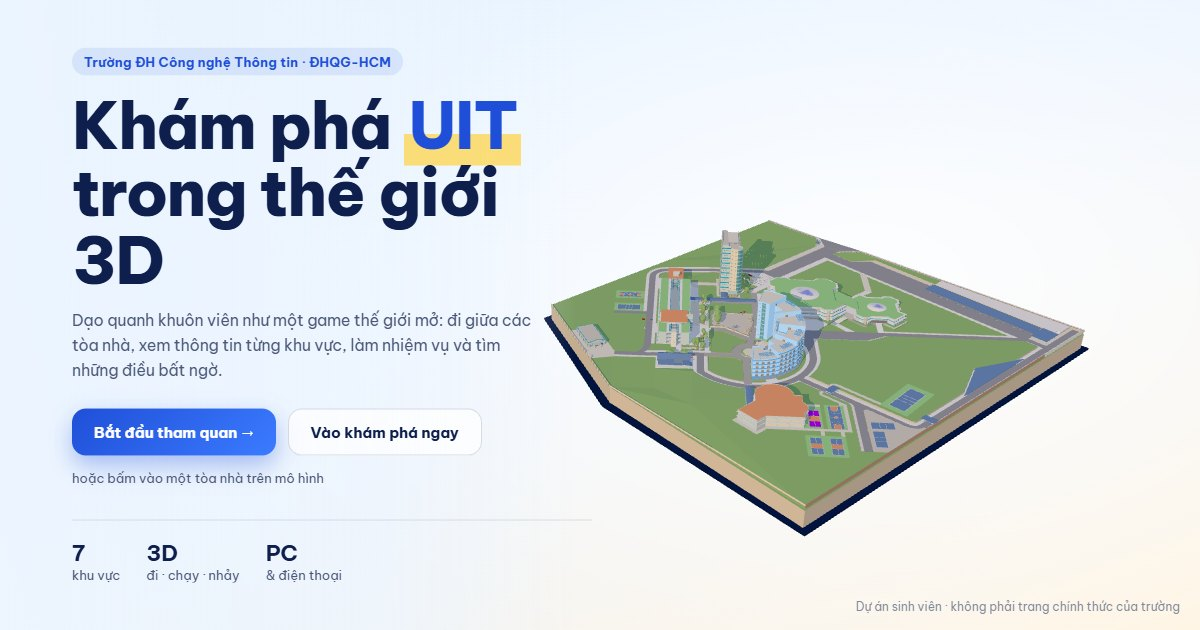
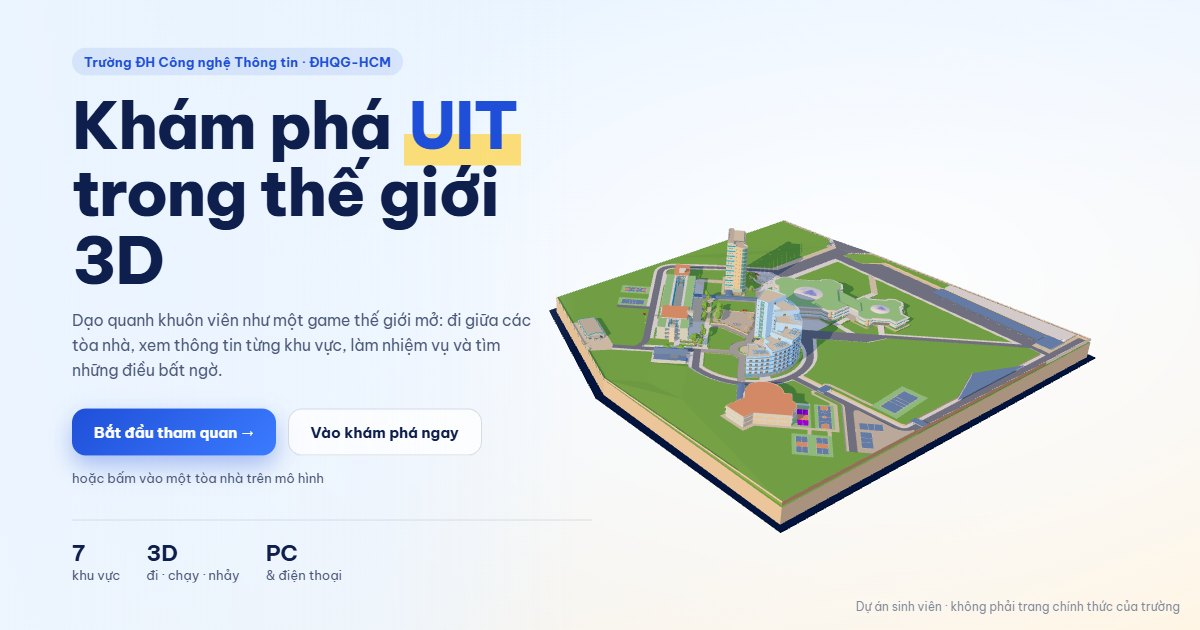
Nang cap do hoa: nang thap am, mau mat dat, bong mem, hieu ung bong goc va khu rang cua o chat luong cao, anh xem truoc moi

Changed region(s): [[0.4317, 0.3317, 0.925, 0.8444]]

diff --git a/src/world/palette.js b/src/world/palette.js
@@ -14,6 +14,13 @@ const CHUNG = {
   B03_Apricot_Glow: "#ffb48c",    // mai ngoi, san
   Color_C08: "#cfa67e",           // than cay
 };
+// di cung anh sang "thap" / "tuoi" (lighting.js): co, loi di, duong bot nhot
+const TUOI = {
+  Color_E08: "#93cb6c",
+  M00_Soft_Cloud: "#f6ead2",
+  M03_Pewter_Shine: "#e3d9c6",
+  M06_Steel_Smoke: "#9298a8",
+};
 // mau rieng tung toa (nhu ban cu: B tuong xanh da troi nhat, gian lam xanh duong)
 const RIENG = {
   BLD_B: { UIT_suporting_blue: "#c4e4ff", FrontColor: "#eef7fd", UIT_main_blue: "#6aaae6", UIT_glasswindow_main: "#7cc3d6" },
@@ -22,7 +29,9 @@ const RIENG = {
 // tu sang nhe (mau cong them) cho tuong o phia ram khong bi xam
 const SANG = { UIT_suporting_blue: "#4c7ea6", UIT_main_blue: "#3a6890" };
 
-const goc = typeof window !== "undefined" && new URLSearchParams(window.location.search).get("mau") === "goc";
+const query = new URLSearchParams(typeof window !== "undefined" ? window.location.search : "");
+const goc = query.get("mau") === "goc";
+const bang = ["sang", "trua", "chieu"].includes(query.get("nang")) ? CHUNG : { ...CHUNG, ...TUOI };
 
 export function applyPalette(scene) {
   if (goc) return;
@@ -41,8 +50,8 @@ export function applyPalette(scene) {
           clones.set(o.material, m);
         }
         o.material = clones.get(o.material);
-      } else if (CHUNG[name] && !done.has(o.material)) {
-        o.material.color.set(CHUNG[name]);
+      } else if (bang[name] && !done.has(o.material)) {
+        o.material.color.set(bang[name]);
         done.add(o.material);
       }
     });

diff --git a/src/App.jsx b/src/App.jsx
@@ -30,6 +30,10 @@ const QUALITY = {
   high: { dpr: Math.min(window.devicePixelRatio || 1, 2), shadows: true, mapSize: 4096 },
 };
 
+// Hieu ung hinh anh (world/Effects.jsx): chi o chat luong Cao tren may co chuot; ?fx=0 tat, ?fx=1 ep bat
+const fxParam = new URLSearchParams(window.location.search).get("fx");
+const coarse = window.matchMedia("(pointer: coarse)").matches;
+
 // Bat loi khi chua co file mo hinh
 class ModelErrorBoundary extends Component {
   state = { error: null };
@@ -73,7 +77,9 @@ export default function App() {
   const binds = useSettings((s) => s.binds);
   const quality = useSettings((s) => s.quality);
   const [autoLevel, setAutoLevel] = useState("medium");
-  const q = QUALITY[quality === "auto" ? autoLevel : quality];
+  const level = quality === "auto" ? autoLevel : quality;
+  const q = QUALITY[level];
+  const effects = fxParam ? fxParam === "1" : level === "high" && !coarse;
   useHotkeys();
 
   // o trang chu/tham quan: doi trang yen roi tai ngam phan kham pha
@@ -117,7 +123,7 @@ export default function App() {
           <hemisphereLight args={LIGHT.hemi} />
           <Sun shadows={q.shadows} mapSize={q.mapSize} follow={explore} />
           <Suspense fallback={null}>
-            {previewName ? <BuildingPreview name={previewName} /> : explore ? <Explore /> : <IntroScene />}
+            {previewName ? <BuildingPreview name={previewName} /> : explore ? <Explore effects={effects} /> : <IntroScene />}
           </Suspense>
         </Canvas>
         {previewName ? (

diff --git a/src/world/lighting.js b/src/world/lighting.js
@@ -2,8 +2,28 @@
 // Luu y: da tang hemi sau khi nuong (26/11), lan nuong sau can chinh PRESETS trong uit_lightbake.py cho khop.
 // Phai khop PRESETS trong tools/blender/uit_lightbake.py (anh sang da nuong):
 // sun = huong toi mat troi (three x,y,z) = Blender sun_dir (x,y,z) -> (x, z, -y).
-// Mac dinh "sang" (mo hinh chinh nuong kieu nay); ?nang=trua / ?nang=chieu de xem thu (kem ?model=... cung kieu).
+// Mac dinh "thap"; ?nang=tuoi / sang (kieu cu, khop ban nuong) / trua / chieu de xem thu.
 const PRESETS = {
+  // ?nang=tuoi: nang cao hon (~9h), bong ngan
+  tuoi: {
+    sun: [110, 130, 75],
+    sunColor: "#ffefd2",
+    sunIntensity: 2.15,
+    hemi: ["#d9e8ff", "#d4bf9c", 1.6],
+    skySun: [110, 70, 75],
+    sky: { turbidity: 3, rayleigh: 0.8, mieCoefficient: 0.003, mieDirectionalG: 0.8 },
+    shadowRadius: 2.5,
+  },
+  // mac dinh (chu du an chon): nang thap ~8h, am, bong dai; vung ram nang sang de khong bi xam
+  thap: {
+    sun: [140, 78, 85],
+    sunColor: "#ffd9a0",
+    sunIntensity: 2.6,
+    hemi: ["#d3e0ff", "#d9b890", 1.65],
+    skySun: [140, 38, 85],
+    sky: { turbidity: 4, rayleigh: 1.1, mieCoefficient: 0.004, mieDirectionalG: 0.82 },
+    shadowRadius: 2.5,
+  },
   trua: {
     sun: [120, 160, 80],
     sunColor: "#ffffff",
@@ -28,4 +48,4 @@ const PRESETS = {
 };
 
 const pick = typeof window !== "undefined" && new URLSearchParams(window.location.search).get("nang");
-export const LIGHT = PRESETS[pick] || PRESETS.sang;
+export const LIGHT = PRESETS[pick] || PRESETS.thap;

diff --git a/src/world/Avatar.jsx b/src/world/Avatar.jsx
@@ -6,6 +6,8 @@ import { clone } from "three/examples/jsm/utils/SkeletonUtils.js";
 // Mo hinh nhan vat (public/models/nv_nam.glb, nv_nu.glb, dung bang tools/blender/uit_nhanvat.py).
 // Chan o y = 0, cao ~1,85 m, mat nhin ve +Z. Toc dai la object ToDai (chi ban nu).
 // drive(actions, dt): moi frame chinh trong so cac dong tac; bo trong thi chi dung yen.
+const SELF_LIGHT = 0.16;
+
 export default function Avatar({ gender = "nam", hair = "ngan", drive }) {
   const { scene, animations } = useGLTF(`${import.meta.env.BASE_URL}models/nv_${gender}.glb`);
   const model = useMemo(() => clone(scene), [scene]);
@@ -18,6 +20,13 @@ export default function Avatar({ gender = "nam", hair = "ngan", drive }) {
       if (!o.isMesh) return;
       o.castShadow = true;
       o.frustumCulled = false; // luoi co xuong: hop bao tinh theo tu the goc, de bi cat nham
+      // tu sang nhe theo mau cua chinh no: nguoc nang mat khong bi toi om
+      const m = o.material;
+      if (m.map) {
+        m.emissiveMap = m.map;
+        m.emissive.setScalar(1);
+      } else m.emissive.copy(m.color);
+      m.emissiveIntensity = SELF_LIGHT;
     });
   }, [model]);
 

diff --git a/src/world/Explore.jsx b/src/world/Explore.jsx
@@ -1,11 +1,14 @@
 // Che do kham pha (tai rieng khi can): vat ly Rapier + khuon vien + nhan vat.
+import { Suspense, lazy } from "react";
 import { Physics } from "@react-three/rapier";
 import Campus from "./Campus";
 import Player from "./Player";
 import Waypoint from "./Waypoint";
+// chi tai thu vien hieu ung khi can (dien thoai khong dung toi)
+const Effects = lazy(() => import("./Effects"));
 import { useGame } from "../game/store";
 
-export default function Explore() {
+export default function Explore({ effects }) {
   const debug = useGame((s) => s.physicsDebug);
   const paused = useGame((s) => s.menuOpen || s.mapOpen);
   return (
@@ -15,6 +18,11 @@ export default function Explore() {
         <Player />
       </Physics>
       <Waypoint />
+      {effects && (
+        <Suspense fallback={null}>
+          <Effects />
+        </Suspense>
+      )}
     </>
   );
 }

diff --git a/src/world/Effects.jsx b/src/world/Effects.jsx
@@ -1,0 +1,15 @@
+import { EffectComposer, N8AO, Bloom, ToneMapping } from "@react-three/postprocessing";
+import { ToneMappingMode } from "postprocessing";
+
+// Hieu ung hinh anh (chi chat luong Cao, khong chay tren man hinh cam ung; xem App.jsx):
+// N8AO = bong nhe o goc tuong, gam mai, chan bac; Bloom = choi nhe cho cho rat sang;
+// multisampling = khu rang cua. Composer tat tone mapping cua renderer nen phai them ToneMapping o cuoi.
+export default function Effects() {
+  return (
+    <EffectComposer multisampling={4}>
+      <N8AO halfRes aoRadius={2.2} distanceFalloff={1} intensity={2.6} color="#0b1430" />
+      <Bloom mipmapBlur intensity={0.25} luminanceThreshold={1.15} luminanceSmoothing={0.2} />
+      <ToneMapping mode={ToneMappingMode.NEUTRAL} />
+    </EffectComposer>
+  );
+}

diff --git a/src/world/Atmosphere.jsx b/src/world/Atmosphere.jsx
@@ -57,7 +57,7 @@ export default function Atmosphere({ on, fog = true }) {
   return (
     <>
       {fog && <fog ref={fogRef} attach="fog" args={[SKY_COLOR, 3000, 6000]} />}
-      <Sky ref={sky} sunPosition={LIGHT.skySun} />
+      <Sky ref={sky} sunPosition={LIGHT.skySun} {...LIGHT.sky} />
     </>
   );
 }

diff --git a/src/world/Sun.jsx b/src/world/Sun.jsx
@@ -50,6 +50,7 @@ export default function Sun({ shadows, mapSize, follow, color = LIGHT.sunColor, 
       shadow-camera-far={500}
       shadow-bias={-0.0002}
       shadow-normalBias={follow ? 0.03 : 0.3}
+      shadow-radius={LIGHT.shadowRadius ?? 1} // mep bong mem
     />
   );
 }

diff --git a/CLAUDE.md b/CLAUDE.md
@@ -72,6 +72,12 @@ tách thành object, không dời/uốn đỉnh, không thêm khối nhìn thấ
 - Màu đổi trên web theo tên vật liệu: `src/world/palette.js` (`?mau=goc` xem màu gốc). Không tự tô thêm họa tiết.
 - Chưa có `ITEM_*` (điểm vật phẩm nhiệm vụ). Chưa đo FPS trên điện thoại.
 
+## Đồ họa
+
+- Ánh sáng mặc định `thap` (nắng thấp, chủ dự án chọn) trong `world/lighting.js`; `?nang=tuoi|sang|trua|chieu` để so.
+- `world/Effects.jsx` (N8AO, bloom, khử răng cưa; `@react-three/postprocessing`): chỉ chất lượng Cao, không bật trên
+  màn hình cảm ứng; `?fx=0|1` tắt / ép bật. Tải riêng khi bật (trang chủ, tham quan chưa dùng).
+
 ## Nhân vật
 
 - `public/models/nv_nam.glb`, `nv_nu.glb`: dựng từ bộ Ultimate Modular Men/Women của Quaternius + đồng phục UIT
